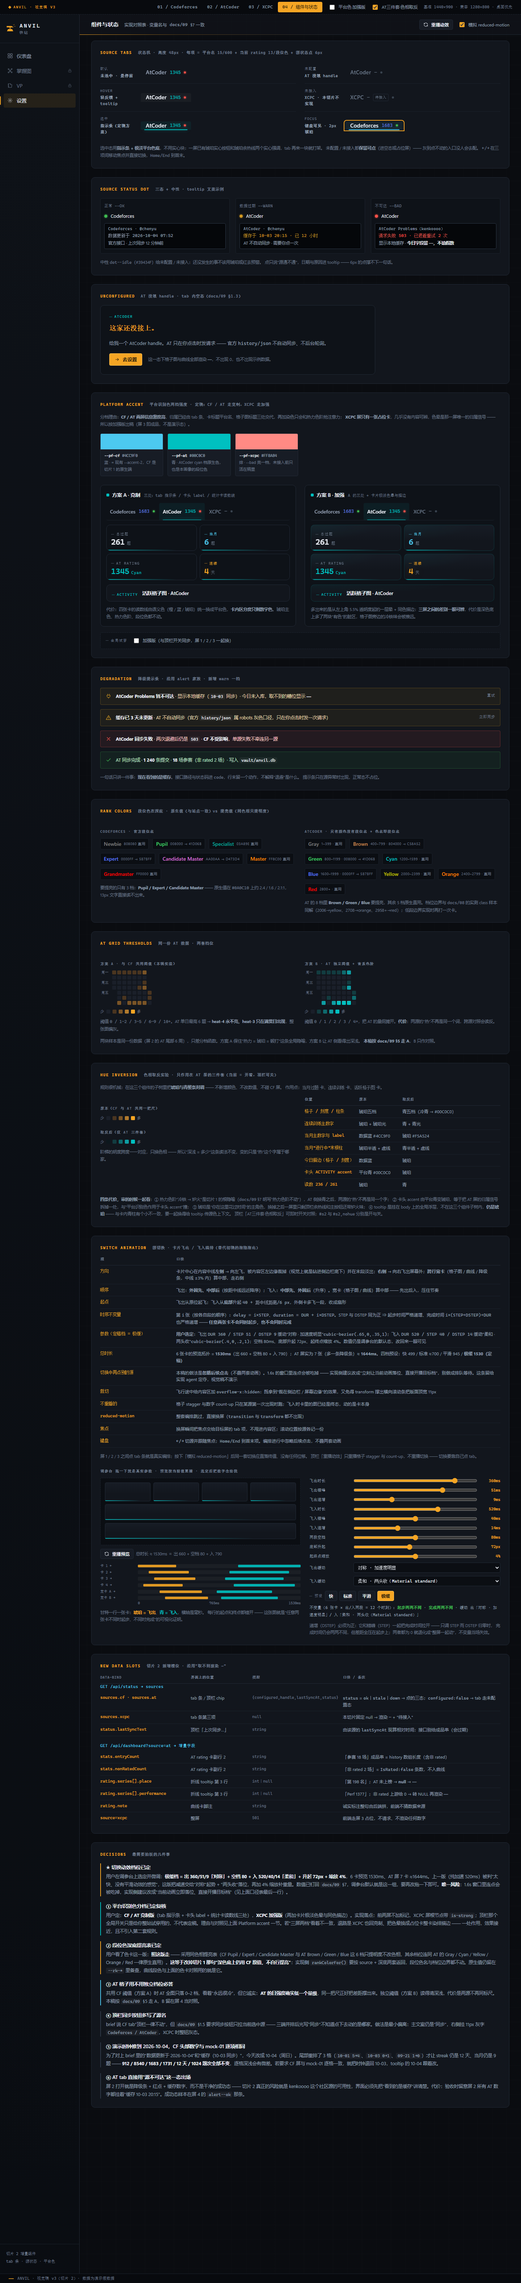
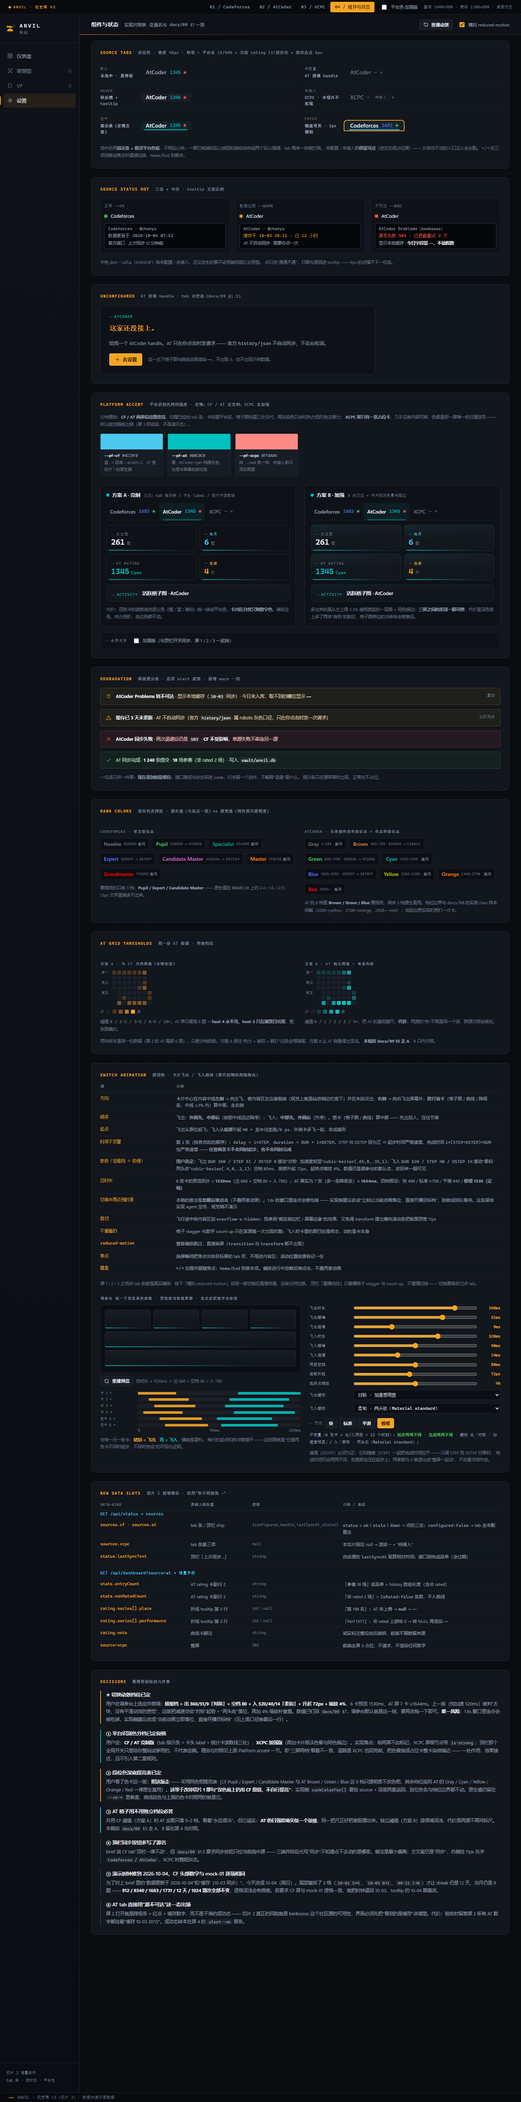
回退色相取反实验 + 出切片 2 视觉侧交付报告
- revert facd468：用户判放弃，代码与截图完全回到定档态（6a236c5），稿内 hue 相关零残留；用 revert 而非 reset，保留"试过又放弃"的痕迹
- docs/11-交付报告-mock02.md：交付物清单、brief 逐条完成度对照、已定稿三条、主张与冲突清单（A 类 = 我偏离/超出原要求的 8 条主张，B 类 = 原要求之间本来就撞的 8 组，逐条写明冲突双方、处理方式、影响与退路）、未拍板的 AT 格子档位、6 条已知问题与未覆盖项、复现与验收方法
- 明确记录真实缺口：设置页 AT handle 行未出稿（09 §3.2 要求、10 的 4 屏未列）
- 冻结物核对未动：docs/01、docs/04、mock-01、实现说明.md
- 02 记第 18（实验已放弃）与第 19（交付）轮

diff --git a/design/mock-02-three-ends.html b/design/mock-02-three-ends.html
@@ -609,25 +609,6 @@ body.pf-strong .dash .cmp--soft .stat,body.pf-strong .dash .cmp--soft .card{
 .inv{font-family:var(--font-num);font-size:11px;color:var(--text-dim);line-height:1.8}
 .inv b{color:var(--ok)} .inv .no{color:var(--bad)}
 
-/* ---------- 15. 色相取反实验（只作用在 AT 屏的三件套：当月柱 / 连续刻度 / 活跃格子）----------
-   规则很机械：组件子树内 琥珀 ↔ 青 整条对调 —— 热力色阶换成青系阶梯，
-   原本青的点缀（数据蓝数字、today 描边、卡头平台色 accent）换成琥珀。CF 屏完全不碰。 */
-:root{--hue-a:#F5A524; --hue-c:#00C0C0}
-body.hue-on .hue-target{
-  --accent:var(--hue-c);          /* 原琥珀 → 青 */
-  --accent-2:var(--hue-a);        /* 原青 / 数据蓝 → 琥珀 */
-  --pf:var(--hue-a); --pf-rgb:245,165,36;
-  --heat-0:#0C171D;               /* 冷铁改冷青，保持"没打 = 暗"的读法 */
-  --heat-1:#123C40;
-  --heat-2:#0E6A6E;
-  --heat-3:#0E9EA4;
-  --heat-4:#00C0C0;               /* 火头 → 青头 */
-}
-body.hue-on .hue-target .stat__num--hot{text-shadow:0 0 22px rgba(0,192,192,.28)}
-body.hue-on .hue-target .ticks i[data-l="4"]{box-shadow:0 0 8px rgba(0,192,192,.5)}
-body.hue-on .hue-target .mbar i{box-shadow:inset 0 1px 0 rgba(255,255,255,.16)}
-body.hue-on .hue-target .acell[data-l="4"]{box-shadow:inset 0 1px 0 rgba(255,255,255,.34)}
-
 .rise{animation:rise 200ms var(--ease) both}
 @keyframes rise{from{opacity:0;transform:translateY(6px)}to{opacity:1;transform:none}}
 
@@ -641,7 +622,7 @@ body.rm-on *,body.rm-on *::before,body.rm-on *::after{
 }
 </style>
 </head>
-<body class="hue-on">
+<body>
 
 <!-- ===== 内联图标：几何线条，零外部依赖 ===== -->
 <svg width="0" height="0" style="position:absolute" aria-hidden="true" focusable="false">
@@ -697,7 +678,6 @@ body.rm-on *,body.rm-on *::before,body.rm-on *::after{
     <button class="mocktab" role="tab" id="t4" aria-controls="s4" aria-selected="false" data-screen="s4" tabindex="-1">04 / 组件与状态</button>
   </nav>
   <label class="switch" title="整份稿子切到加强版：卡片再加一层极淡平台色晕"><input type="checkbox" id="pfToggle"> 平台色·加强版</label>
-  <label class="switch" title="AT 屏的当月柱 / 连续刻度 / 活跃格子三件套：琥珀与青整条对调（实验态，CF 屏不碰）"><input type="checkbox" id="hueToggle" checked> AT三件套·色相取反</label>
   <span class="mockbar__spec">基准 1440×900 · 兼容 1280×800 · 桌面优先</span>
 </header>
 
@@ -866,7 +846,7 @@ body.rm-on *,body.rm-on *::before,body.rm-on *::after{
           <div class="stat__num"><span class="cu" data-bind="stats.totalSolved" data-to="261">261</span><span class="stat__unit">题</span></div>
           <div class="stat__sub2">首次 AC 计一道 · 来源 kenkoooo 提交明细</div>
         </div>
-        <div class="stat hue-target">
+        <div class="stat">
           <div class="label label--blue stat__label">当月过题</div>
           <div class="stat__num stat__num--blue"><span class="cu" data-bind="stats.months.-1.solved" data-to="6">6</span><span class="stat__unit">题</span></div>
           <div class="mbars" id="mbars-at" role="img" aria-label="近 6 个月过题柱状图"></div>
@@ -878,7 +858,7 @@ body.rm-on *,body.rm-on *::before,body.rm-on *::after{
           <div class="stat__sub">最高 <b class="num" style="color:var(--text-dim)" data-bind="rating.max">1362</b><span class="delta" data-tone="rating.lastDeltaTone" data-bind="rating.lastDeltaText">—</span><span class="mute" data-bind="rating.lastContestShort" title="上一场">—</span></div>
           <div class="stat__sub2"><span data-bind="stats.entryCount">参赛 18 场</span> · <span data-bind="stats.nonRatedCount">非 rated 2 场</span></div>
         </div>
-        <div class="stat hue-target">
+        <div class="stat">
           <div class="label label--accent stat__label">连续训练</div>
           <div class="stat__num stat__num--hot"><span class="cu" data-bind="stats.streak.days" data-to="4">4</span><span class="stat__unit">天</span></div>
           <div class="stat__sub" data-bind="stats.streak.sub">—</div>
@@ -887,7 +867,7 @@ body.rm-on *,body.rm-on *::before,body.rm-on *::after{
       </div>
 
       <!-- b. 活跃格子图（同组件，输入换成 AT 提交） -->
-      <div class="card card--pad0 rise hue-target">
+      <div class="card card--pad0 rise">
         <div class="card__head">
           <span class="label label--pf">Activity</span>
           <h3 class="card__title">活跃格子图 · AtCoder</h3>
@@ -1278,49 +1258,6 @@ body.rm-on *,body.rm-on *::before,body.rm-on *::after{
           <p class="hint" style="margin-top:14px">
             两块样本是同一份数据（屏 2 的 AT 尾部 6 周），只差分档函数。方案 A 保住"热力 = 琥珀 = 锻打"这条全局隐喻，方案 B 让 AT 侧看得出深浅。
             <b>本稿按 <code>docs/09</code> §5 走 A</b>，B 只作对照。
-          </p>
-        </section>
-
-        <!-- ---------- 色相取反实验 ---------- -->
-        <section>
-          <h3>Hue inversion <span>色相取反实验 · 只作用在 AT 屏的三件套（当前 = 开着，顶栏可关）</span></h3>
-          <p class="hint" style="margin-bottom:var(--sp-2)">
-            规则很机械：在这三个组件的子树里把<b>琥珀与青整条对调</b> —— 不新增颜色、不改数值、不碰 CF 屏。
-            作用点：<code>当月过题</code> 卡、<code>连续训练</code> 卡、<code>活跃格子图</code> 卡。
-          </p>
-          <div class="tk-grid2">
-            <div>
-              <h4>原本（CF 与 AT 共用一把尺）</h4>
-              <div class="legend" style="margin-bottom:10px">少
-                <i style="background:#1A1F29"></i><i style="background:#4A3520"></i><i style="background:#7A5426"></i><i style="background:#B27B2E"></i><i style="background:#F5A524"></i>多
-              </div>
-              <h4>取反后（仅 AT 三件套）</h4>
-              <div class="legend" style="margin-bottom:10px">少
-                <i style="background:#0C171D"></i><i style="background:#123C40"></i><i style="background:#0E6A6E"></i><i style="background:#0E9EA4"></i><i style="background:#00C0C0"></i>多
-              </div>
-              <p class="hint">阶梯的明度跨度一一对应，只换色相 —— 所以"深浅 = 多少"这条读法不变，变的只是"热"这个字属于哪家。</p>
-            </div>
-            <div>
-              <table class="sl">
-                <thead><tr><th style="width:150px">位置</th><th style="width:120px">原本</th><th>取反后</th></tr></thead>
-                <tbody>
-                  <tr><td>格子 / 刻度 / 柱条</td><td>琥珀五档</td><td>青五档（冷青 → #00C0C0）</td></tr>
-                  <tr><td>连续训练主数字</td><td>琥珀 + 琥珀光</td><td>青 + 青光</td></tr>
-                  <tr><td>当月主数字与 label</td><td>数据蓝 #4CC9F0</td><td>琥珀 #F5A524</td></tr>
-                  <tr><td>当月"进行中"末根柱</td><td>琥珀半透 + 虚线</td><td>青半透 + 虚线</td></tr>
-                  <tr><td>今日描边（格子 / 刻度）</td><td>数据蓝</td><td>琥珀</td></tr>
-                  <tr><td>卡头 ACTIVITY accent</td><td>平台青 #00C0C0</td><td>琥珀</td></tr>
-                  <tr><td>读数 236 / 261</td><td>琥珀</td><td>青</td></tr>
-                </tbody>
-              </table>
-            </div>
-          </div>
-          <p class="hint" style="margin-top:14px">
-            <b>四条代价，审的时候一起看</b>：① 热力色阶"冷铁 → 炉火"是切片 1 的根隐喻（<code>docs/09</code> §7 明写"热力色阶不动"），AT 侧换青之后，两源的"热"不再是同一个字；
-            ② 卡头 accent 由平台青变琥珀，等于把 AT 屏的归属信号拆掉一处，与"平台识别色作用于卡头 accent"撞；
-            ③ 琥珀是"你在这里花过时间"的主角色，换掉之后一屏里只剩顶栏余热线和主按钮还带炉火味；
-            ④ tooltip 是挂在 body 上的全局浮层，不在这三个组件子树内，<b>仍是琥珀</b> —— 与卡内青柱有个小不一致，要一起换得给 tooltip 传源色上下文。
-            顶栏「AT三件套·色相取反」可即时开关对照；<code>#s2</code> 与 <code>#s2,nohue</code> 分别是开与关。
           </p>
         </section>
 
@@ -2247,10 +2184,6 @@ bindPair(pfA,pfB,function(on){
   document.body.classList.toggle("pf-strong",on);
   if(pfA) pfA.checked=on; if(pfB) pfB.checked=on;
 });
-/* AT 三件套色相取反：实验态，默认开着，顶栏可关（#s2,nohue 看对照） */
-var hue=$("#hueToggle");
-function setHue(on){ document.body.classList.toggle("hue-on",on); if(hue) hue.checked=on }
-if(hue) hue.addEventListener("change",function(){ setHue(hue.checked) });
 var rm=$("#rmToggle");
 function setRM(on){ document.body.classList.toggle("rm-on",on); if(rm) rm.checked=on }
 if(rm) rm.addEventListener("change",function(){ setRM(rm.checked) });
@@ -2388,8 +2321,6 @@ window.addEventListener("resize",function(){
   tokens.forEach(function(t){
     if(t==="strong"){ document.body.classList.add("pf-strong"); if(pfA) pfA.checked=true; if(pfB) pfB.checked=true }
     else if(t==="rm") setRM(true);
-    else if(t==="hue") setHue(true);
-    else if(t==="nohue") setHue(false);
   });
   tokens.forEach(function(t){ if(/^s[1-4]$/.test(t)) go(t) });
 })();

diff --git a/docs/11-交付报告-mock02.md b/docs/11-交付报告-mock02.md
@@ -1,0 +1,143 @@
+# 交付报告 · mock-02（切片 2 视觉侧）
+
+> 交付对象：架构侧（用户）。本文件是**视觉稿这一侧的交付说明**，不是实现契约 —— 实现契约仍是 `09-AT规格.md`。
+> 分支：`feat/mock02-card-fly`，**未合并 master**，等审核。工作树干净。
+> 生成时间：2026-10-04。
+
+---
+
+## 1. 交付物
+
+| 物 | 路径 | 说明 |
+|---|---|---|
+| 视觉稿 | `design/mock-02-three-ends.html` | 单文件 · 零外部依赖 · 双击即开 · 2333 行 |
+| 静态截图 | `design/_shots/_shot-v3-{s1,s2,s3,s4,s4-tall,s1-1280,s2-1280,s2-strong,tuner}.png` | 9 张；`-tall` 为屏 4 全高（1440×5800 窗口才装得下） |
+| 动效中程帧 | `design/_shots/_shot-v3-fly-{400,900,1600}.png` | 定档编排的三个相位：出段进行中 / 入段扇形展开 / 收尾 |
+| 文档 | `docs/09` §7、`docs/10`、`docs/02`（第 15–19 轮） | 口径同步；`docs/04`、`docs/01`、`mock-01`、`实现说明.md` **未动** |
+
+分支提交序列：
+
+```
+facd468 → 已 revert   实验：AT 三件套色相取反（用户判放弃）
+6a236c5              动效定档（极缓）+ 段位色提亮表定稿 + 平台色按源分档
+be1fc17              动效改向：渐隐渐出 → 卡片两侧飞出 / 底部飞入
+ef1644e (master)     切片 2：AT 规格与 brief 定稿 + mock-02 三端视觉稿
+```
+
+---
+
+## 2. brief 逐条完成度
+
+| `docs/10` 要求 | 状态 | 证据 |
+|---|---|---|
+| 4 屏：CF / AT / XCPC / 组件与状态 | ✅ | `_shot-v3-s1/s2/s3/s4.png` |
+| 页脚文案 v3（切片 2） | ✅ | 各截图底栏 |
+| tab 条：48px、平台名 15/600 + rating 13/段位色 + 6px 源状态点 | ✅ | 屏 1/2/3 顶部；屏 4 状态样本 |
+| tab 条五态：默认 / hover+tooltip / 选中 / 未配置 / 未接入 | ✅ | 屏 4「Source tabs」六行样本（含键盘 focus 态） |
+| 切换动画 ≤200ms 渐隐渐出 | ⚠ **已改口径** | 第 15 轮用户推翻，改为卡片飞出飞入；见 §3 与 §4-B1 |
+| CF 两处调整：删两张锁定卡、曲线整行 | ✅ | `_shot-v3-s1.png`；锁定卡只存于左导航 |
+| CF 其余一律不动（四卡 / 格子 / 顶栏） | ⚠ **有偏离** | 顶栏同步按钮加了源名；rating 数字改走段位色。见 §4-A2 / B2 |
+| AT：4 统计卡与 CF 同构 | ✅ | `_shot-v3-s2.png` |
+| AT：活跃格子同组件 | ✅ | 同上；53 周窗口与 CF 共用同一把尺 |
+| AT：曲线只收 rated、末点/hover 与 CF 同规则 | ✅ | 16 点 rated，2 场非 rated 不入线 |
+| AT：段位用原生色名 + 原生色 | ✅ | `Cyan` + `#00C0C0` |
+| AT：副行"参赛 N 场 · 非 rated M 场" | ✅ | `参赛 18 场 · 非 rated 2 场`（口径自编，见 §4-B3） |
+| AT：tooltip 加一行 `第 N 名 · Perf NNNN` | ✅ | 屏 4 样本 + 实测 tooltip 文本 `第 198 名 · Perf 1377` |
+| AT：诚实标注一行 | ✅ | 曲线卡脚注，逐字照抄 brief |
+| AT：假数据画像（Gray→Brown→Green→Cyan 1345；格子明显稀疏；近两周密集暑期松） | ✅ | 起点 372 真 Gray（见 §4-B4）；AT 活跃 116 天 vs CF 312 天；周日行成链、工作日基本空 |
+| XCPC 占位屏：一句状态 + 一句预告，无 CTA | ✅ | `_shot-v3-s3.png`；同步钮灰态 |
+| 屏 4：源状态点三态 + tooltip 文案 | ✅ | 正常 / 过期 / 不可达 + 中性 idle |
+| 屏 4：降级提示条（沿用 alert 家族） | ✅ | 新增 `alert--warn` 一档，四条变体 |
+| 屏 4：平台识别色两档对比 | ✅ | 方案 A/B 并排 + 全局试穿开关 |
+| 屏 4：切换动画说明 | ✅ | 口径表 + **调参台**（brief 未要求，见 §4-A4） |
+| 1440×900 / 1280×800 不破版 | ✅ | 四屏 `scrollWidth == clientWidth`，无横向溢出；1280 截图两张 |
+| 键盘 focus 可见 | ✅ | 全局 `:focus-visible` 2px 琥珀 + 屏 4 样本态 |
+| reduced-motion 尊重 | ✅ | 编排整套跳过、stagger 与 count-up 直落终值；截图全部带 `,rm` 即终态证据 |
+| 文案从简 | ✅ | 无自明注释；屏 4 每条说明都带"代价"而不只是描述 |
+
+---
+
+## 3. 已定稿的三条（用户拍板）
+
+1. **切换动效 = 极缓档（用户在屏 4 调参台选定并微调）**
+   飞出 `DUR 360 / STEP 51 / DSTEP 9` 缓动"对称"`cubic-bezier(.65,0,.35,1)` → 空档 80ms → 飞入 `DUR 520 / STEP 40 / DSTEP 14` 缓动"柔和"`cubic-bezier(.4,0,.2,1)`，底部升起 72px、起终点缩放 4%。
+   6 卡预览 1530ms；AT 屏 7 卡**实测 1654ms**。已钉回 `09` §7。
+2. **段位色深底提亮表**：6 档只提明度不改色相（CF Pupil/Expert/Candidate Master、AT Brown/Green/Blue），其余原生直用。
+   → 正式推翻 `packages/shared/src/rating.ts` 里"深色底上仍用 CF 原值，不自行提亮"那句；`rankColorFor()` 要按 source 分派。
+3. **平台识别色按源分档**：CF / AT 克制版（三处作用点），XCPC 加强版（根节点 `is-strong`，色晕 + 同色描边）。
+
+---
+
+## 4. 主张与冲突清单 ★
+
+### A 类 · 我的主张，与原要求有偏离或超出（请重点复核）
+
+| # | 我的主张 | 原要求怎么说 | 我为什么这么做 | 影响 / 退路 |
+|---|---|---|---|---|
+| **A1** | **AT tab 一打开就是"源不可达 + 显示缓存"态**（红点 + 降级条 + 全部数字标着缓存 10-03 20:15） | brief 只要求屏 4 有降级条**样式样本**，没说实屏要用这个态 | 切片 2 真正的风险就是 kenkoooo 这个社区源的可用性；界面必须先把"看到的是缓存"讲清楚，成功态在屏 4 有 `alert--ok` 样本 | 验收时容易误读成"AT 数据没同步上"。退路：屏 2 改回成功态，把不可达态只留在屏 4 |
+| **A2** | **顶栏同步按钮加了源名**（`同步 · AtCoder`） | brief：CF tab"其余一律不动（四卡、格子、**顶栏**）" | `09` §1.5 要求同步按钮只拉当前选中源；三端并排后光写"同步"不知道点下去动的是哪家 | 顶栏与 mock-01 有一处像素级差异。退路：去掉源名，靠 tooltip 交代（可读性会变差） |
+| **A3** | **CF rating 卡主数字与 tab rating 改走段位色**（Expert → 提亮蓝 `#5B7BFF`），不再是 mock-01 的数据蓝 `#4CC9F0` | brief：CF"四卡一律不动"；`09` §7：rating 数字颜色走段位色规则 | 两条要求互斥时我按契约（09）+ 已落地实现（commit `60ff31b` 已改段位色）走 | CF 卡第 3 张与 mock-01 不同色。属于 B2 的连带后果 |
+| **A4** | **屏 4 加了 brief 没列的东西**：段位色原生/提亮对照表、AT 格子档位 A/B 对照、新增数据槽表、未配置空态样本、**动效调参台 + 甘特图** | brief 屏 4 只列了 4 项（tab 状态 / 点三态 / 平台色两档 / 降级条 / 动画说明） | 每一项都是为了把 `09` 的口径落到可核对的实物；调参台是用户第 16 轮点名要的拉杆 | 屏 4 变成一屏装不下的长文档（要滚到 5800px 才到底），审阅成本高。退路：把调参台与对照表折进单独一屏 |
+| **A5** | **曲线卡改成按窗口宽度重算 viewBox**（原 mock-01 是固定 660×168）+ 刻度步长按跨度自适应 | brief 只说"宽度、留白自行处理得自然" | 整行后若沿用固定 viewBox，1108px 宽的卡会把折线拉成 280px 高的胖图；AT 跨度 372→1362 用固定 100 一档会把 y 轴挤糊 | 与 mock-01 的渲染实现不同（视觉更稳）。属实现细节，不影响口径 |
+| **A6** | **演示时钟推进到 2026-10-04，并重排 CF 尾部 3 格** | brief 的 tooltip 示例写 10-04、降级条示例写"缓存 10-03"；同时 mock-01 冻结在 10-03 且要求 CF 数字不变 | 两条要求不能同时满足，我选"头部数字逐项不变 + 日期对上 brief"：`10-01 5→4`、`10-03 0→1`、`09-21 1→0` | 912 / 8540 / 1683 / 1731 / 12 天 / 1024 题次 **全部不变**；逐格深浅与 mock-01 有微差。若要求逐格一致，退回 10-03 并改 brief 里的日期示例 |
+| **A7** | **平台色具体取值**：CF `#4CC9F0`（= 现有数据蓝）、AT `#00C0C0`（AT cyan 原生）、XCPC `#FF8A84`（`--bad` 亮一档） | brief 只说"从现有色族选（蓝/青/绯系），给出具体值" | 三色都取自仓库已有色族，不引入新色值；XCPC 用绯但**未接入前不显示**（点走中性灰） | 绯与错误色同族，占位屏的选中指示条可能被读成"报错"。退路：XCPC 改银（`--silver`） |
+| **A8** | **1.65s 切换窗口内忽略后续点击**，并在 `09` §7 写了"实现侧建议改成当前动画立即落位、直接开播目标档" | 原要求没提打断行为 | 不叠两套动画最简单，但 1.65s 里连点会被吃掉，是真体验风险 | **这条建议是我的主张、未拍板**。视觉稿没演示打断态，要的话我补 |
+
+### B 类 · 原要求之间本来就冲突（不是我造成的，但需要有人裁决）
+
+| # | 冲突双方 | 具体 | 我怎么处理 | 还需要你做什么 |
+|---|---|---|---|---|
+| **B1** | `10`/`09` 初稿"切换渐隐渐出 ≤200ms" **vs** 用户第 15 轮"卡片两侧飞出 / 底部飞入 + 起步完成两两不同" | 飞入飞出的物理编排天然做不到 200ms 内（7 张卡错峰 + 两段接力） | 按最新指令走，把 ≤200ms 那条作废并改写进 `09` §7 与 `10` | 无（已定档 1654ms）；只是提醒：这条与"不追快"是同一决策的两面 |
+| **B2** | `10`"CF 四卡一律不动" **vs** `09` §7"rating 数字颜色走段位色规则" | mock-01 的 CF rating 数字是数据蓝，段位色规则要求走 Expert 色；实现侧（`60ff31b`）已经改了 | 按 `09` 走（见 A3） | 确认"以 09 为准"这个优先级 |
+| **B3** | `10` 内部：假数据"18 场含 2 场非 rated" **vs** 副行示例"参赛 47 场 · 非 rated 5 场" | 同一份画像两个数打架；且曲线若只收 rated，47 场与 18 场点不出同一条线 | 取 18/2 自洽版（曲线 16 点 = 18 − 2），副行按"口径自编合理值"授权写 `参赛 18 场 · 非 rated 2 场` | 若你要 47/5 那组，我把曲线改成 42 点全史（曲线会更密，但"从 Gray 起步"的叙事要重排） |
+| **B4** | `10`"AT rating 从 **400（Gray）** 起" **vs** AT 档位边界（Gray 1–399 / Brown 400–799） | 400 不可能是 Gray，按边界它是 Brown | 起点改 **372**（真 Gray），叙事保持"Gray→Brown→Green→Cyan" | 确认这个更正（否则要么改档位表，要么放弃 Gray 这一段） |
+| **B5** | `10` 日期示例（10-04 / 缓存 10-03） **vs** mock-01 冻结基线（今天 = 10-03 且数字不变） | 见 A6 | 尾部重排 3 格两边讨好 | 若你认为"逐格与 mock-01 完全一致"优先级更高，我退回 10-03 |
+| **B6** | `09` §5"AT 活跃格子与 CF 同构、5 档" **vs** AT 数据现实（单日 ≤6 题） | 同标尺必然导致 **heat-4 永不亮**、整图只用 0–3 档、偏灰 | 按 §5 实装，把代价显式写进卡脚注，并在屏 4 给方案 B（AT 独立青系 4 档）对照 | **仍未拍板**：见 §5 |
+| **B7** | `09` §7"不动段位色规则" **vs** 深底可读性（Expert `#0000FF` 在 `#0A0C10` 上约 1.6:1，13px 读不出） | 忠实站点 与 读得出来 二选一 | 用户已拍：走提亮表（§3-2），同时推翻 `rating.ts` 那句注释级口径 | 无（已定） |
+| **B8** | `09` §7"热力色阶不动" **vs** 用户第 18 轮"AT 三件套色相取反" | 取反必然动热力色阶 | 做成可开关实验态并实测作用域干净，用户判**放弃**，已 `git revert` 回退，稿内零残留 | 无（已回退）；`09` §7 未改口径 |
+
+---
+
+## 5. 未拍板 · 待裁决
+
+**AT 活跃格子的档位（B6）** —— 三条必答里唯一还没定的。
+
+- 现状（按 `09` §5）：与 CF 共用 `0 / 1–2 / 3–5 / 6–9 / 10+`，结果 heat-4 永不亮、heat-3 只在满贯日出现，整图偏灰。
+- 但同标尺把差距摆得很清楚：**AT 活跃 116 天 / 周末占比 79% / 断档 48 次** vs **CF 312 天 / 45% / 7 次**。
+- 备选：AT 独立阈值 `0/1/2/3/4+` + 青系色阶（屏 4 有对照样本，同一份数据）。代价是两源的"热"不再是同一个词。
+- 我倾向保留共用标尺（诚实呈现量级差），但这条该你定。
+
+---
+
+## 6. 已知问题与未覆盖项
+
+1. **设置页 AT handle 行未出稿** —— `09` §3.2 要求"设置页两行：CF / AT，各含 handle 输入、校验、源状态、上次同步、单源同步按钮"，但 `10` 的 4 屏里没列设置页。**这是本轮交付的真实缺口**，需要补一屏或明确留给实现阶段照 §3.2 自拟。
+2. **AT 未配置空态只给了样本卡**（屏 4「Unconfigured」），没有完整的"点 tab → 空态 → 去设置 → 校验 → 同步"流程稿。
+3. **tooltip 不随源换色** —— 它挂在 body 上，是全局浮层。当前口径下没问题；若将来重启色相取反类实验，会出现卡内青、tooltip 琥珀的不一致（第 18 轮已记）。
+4. **AT 段位色低段边界待再打卡** —— `#804000 / #008000 / #00C0C0 / #0000FF / #C0C000 / #FF8000 / #FF0000 / #808080` 取自站点 CSS 的第三方公开镜像（GitHub 代码搜索命中的抓取型仓库），档位边界与 `docs/08` 实测 class 样本同解（2006→yellow、2708→orange、2958+→red）；400/800/1200/1600 四个低段边界实现阶段建议按 08 的办法再验一次。
+5. **1.65s 切换的连点行为未演示**（见 A8）。
+6. **动效时长是"首载之外每次切换"的固定成本** —— 若实现阶段觉得重，调 `09` §7 那组数即可，不变量（起步/完成两两不同）在 STEP、DSTEP 不同时为 0 时恒成立。
+
+---
+
+## 7. 复现与验收
+
+```
+双击 design/mock-02-three-ends.html
+#s1 #s2 #s3 #s4          直达某一屏
+#s2,rm                   reduced-motion 直落终值（截图用的就是这个态）
+#s2,strong               整站试穿加强版（看非 XCPC 屏染色成不成）
+#s4 + 顶栏两个开关        平台色档 / 调参台
+```
+
+- **动效验收**：在屏 1/2/3 之间点 tab 条即真实编排；屏 4 调参台的甘特图一行一卡，琥珀 = 飞出、青 = 飞入，可直接目视"任意两张卡不同时起步、不同时完成"；把"飞出错峰 + 飞出递增"同时拖到 0，读数会翻红报碰撞。
+- **实测手段**：本机 Chromium + CDP，逐卡读 `getAnimations()` 的 `startTime + delay` 与 `activeDuration`。定档实测：出段起步 0/51/102/153/204/255、完成 360…660；入段起步 2410…2650、完成 2930…3254（相对点击时刻）；**碰撞 0、切换后残留动画 0**。
+- **CF 回归**：`_shot-v3-s1.png` 对 `mock-01` 的四卡数字逐项一致（912 / 9 / 1683 Expert / 1731 / +20 / 12 天 / 今天还没开张·昨日 1 题），格子求和 1024 题次、最长连续 71 天、断档 7 次、周末占比 45% 一致。
+
+---
+
+## 8. 冻结物未动声明
+
+`docs/01-开发文档-v1.0草案.md`（冻结，待重写）、`docs/04-骨架规格.md`（切片 1 契约，已交付）、`design/mock-01-dashboard.html`（切片 1 视觉基线，已冻结）、`实现说明.md` —— 本分支全程未修改，可用 `git diff master --name-only` 核对。
+
+本轮对 `docs/02`（讨论记录）、`docs/09`（切片 2 契约）、`docs/10`（设计 brief）做过追加与口径改写，全部在"非冻结 + 当前切片"范围内。

diff --git a/docs/02-设计讨论记录.md b/docs/02-设计讨论记录.md
@@ -5,13 +5,20 @@
 
 ---
 
-## 2026-10-04 · 第 18 轮：AT 三件套色相取反（实验态，未定稿）
+## 2026-10-04 · 第 19 轮：交付 —— 出 `docs/11-交付报告-mock02.md`
 
-- 用户点了第 17 轮定稿后主动试一轮：**AT 屏的 当月柱 / 连续刻度 / 活跃格子 三件套整条色相取反**，CF 屏不动。规则很机械 —— 组件子树内 琥珀 ↔ 青 对调，不新增颜色、不改数值。
-- 实现走"局部换 token"而不是逐条改样式：给三个组件加 `hue-target`，`body.hue-on .hue-target` 里重定义 `--accent` / `--accent-2` / `--pf` / `--heat-0..4`（青系阶梯，明度跨度与原琥珀阶梯一一对应，所以"深浅 = 多少"的读法不变），另补三处硬编码 rgba 的光晕（主数字 text-shadow、刻度 heat-4、柱条内高光）。
-- 实测作用域干净（CDP 逐元素读 computed color）：AT 连续主数字 `rgb(0,192,192)`、当月主数字 `rgb(245,165,36)`、柱条 `#0E9EA4`、今日描边转琥珀、卡头 accent 转琥珀；**CF 屏逐项保持原值**，AT 顶栏同步按钮（三件套之外）也仍是琥珀。关掉开关立刻回原状。
-- 四条代价已在视觉稿屏 4 的 Hue inversion 一节写清：① 破坏"冷铁→炉火"这条全局热力隐喻（`09` §7 明写热力色阶不动）；② 卡头 accent 由平台青转琥珀，等于拆掉 AT 屏一处归属信号，与 §7 的平台色规则撞；③ 琥珀是"你在这里花过时间"的主角色，换掉后一屏只剩顶栏余热线和主按钮带炉火味；④ tooltip 挂在 body 上、不在这三个组件子树内，**仍是琥珀**，与卡内青柱不一致 —— 要一起换得给 tooltip 传源色上下文。
-- 状态：**实验态，默认开着**（顶栏「AT三件套·色相取反」可关；`#s2` 开、`#s2,nohue` 关）。`09` §7 暂未改口径，等用户判取舍。
+- 写切片 2 视觉侧交付报告：交付物清单 + brief 逐条完成度对照 + 已定稿三条 + **主张与冲突清单**（A 类 = 我偏离原要求的地方，B 类 = 原要求之间本来就撞的地方）+ 已知问题与未覆盖项 + 复现方法。
+- 冻结物核对未动：`docs/01`（v1.0 草案，冻结）、`docs/04`（切片 1 契约）、`design/mock-01-dashboard.html`、`实现说明.md`。
+- 分支停在 `feat/mock02-card-fly`，**不合并 master**，等审核。
+
+---
+
+## 2026-10-04 · 第 18 轮：AT 三件套色相取反 —— 试过，已放弃并回退
+
+- 用户主动试一轮：AT 屏的 当月柱 / 连续刻度 / 活跃格子 三件套内 琥珀 ↔ 青 整条对调，CF 不动。做法是给三组件挂 `hue-target`，在该子树里重定义 `--accent` / `--accent-2` / `--pf` / `--heat-0..4`（青系阶梯，明度跨度一一对应，"深浅 = 多少"的读法不变）。
+- 实测作用域干净（AT 逐项换色、CF 逐项原值、AT 顶栏按钮不外溢、关开关即回原状），但**用户判"放弃"** —— 与 `09` §7"热力色阶不动"、以及"冷铁→炉火"这条根隐喻相抵，且卡头 accent 换琥珀会拆掉 AT 一处归属信号。
+- 回退方式：`git revert`（保留尝试痕迹，不改写历史），代码与截图完全回到第 17 轮定档态，稿内零残留。
+- 顺带暴露一条数据事实：AT 单日最多 6 题 → 格子最高只到 heat-3，青阶顶端在格子里本来就不会出现。
 
 ---
 
